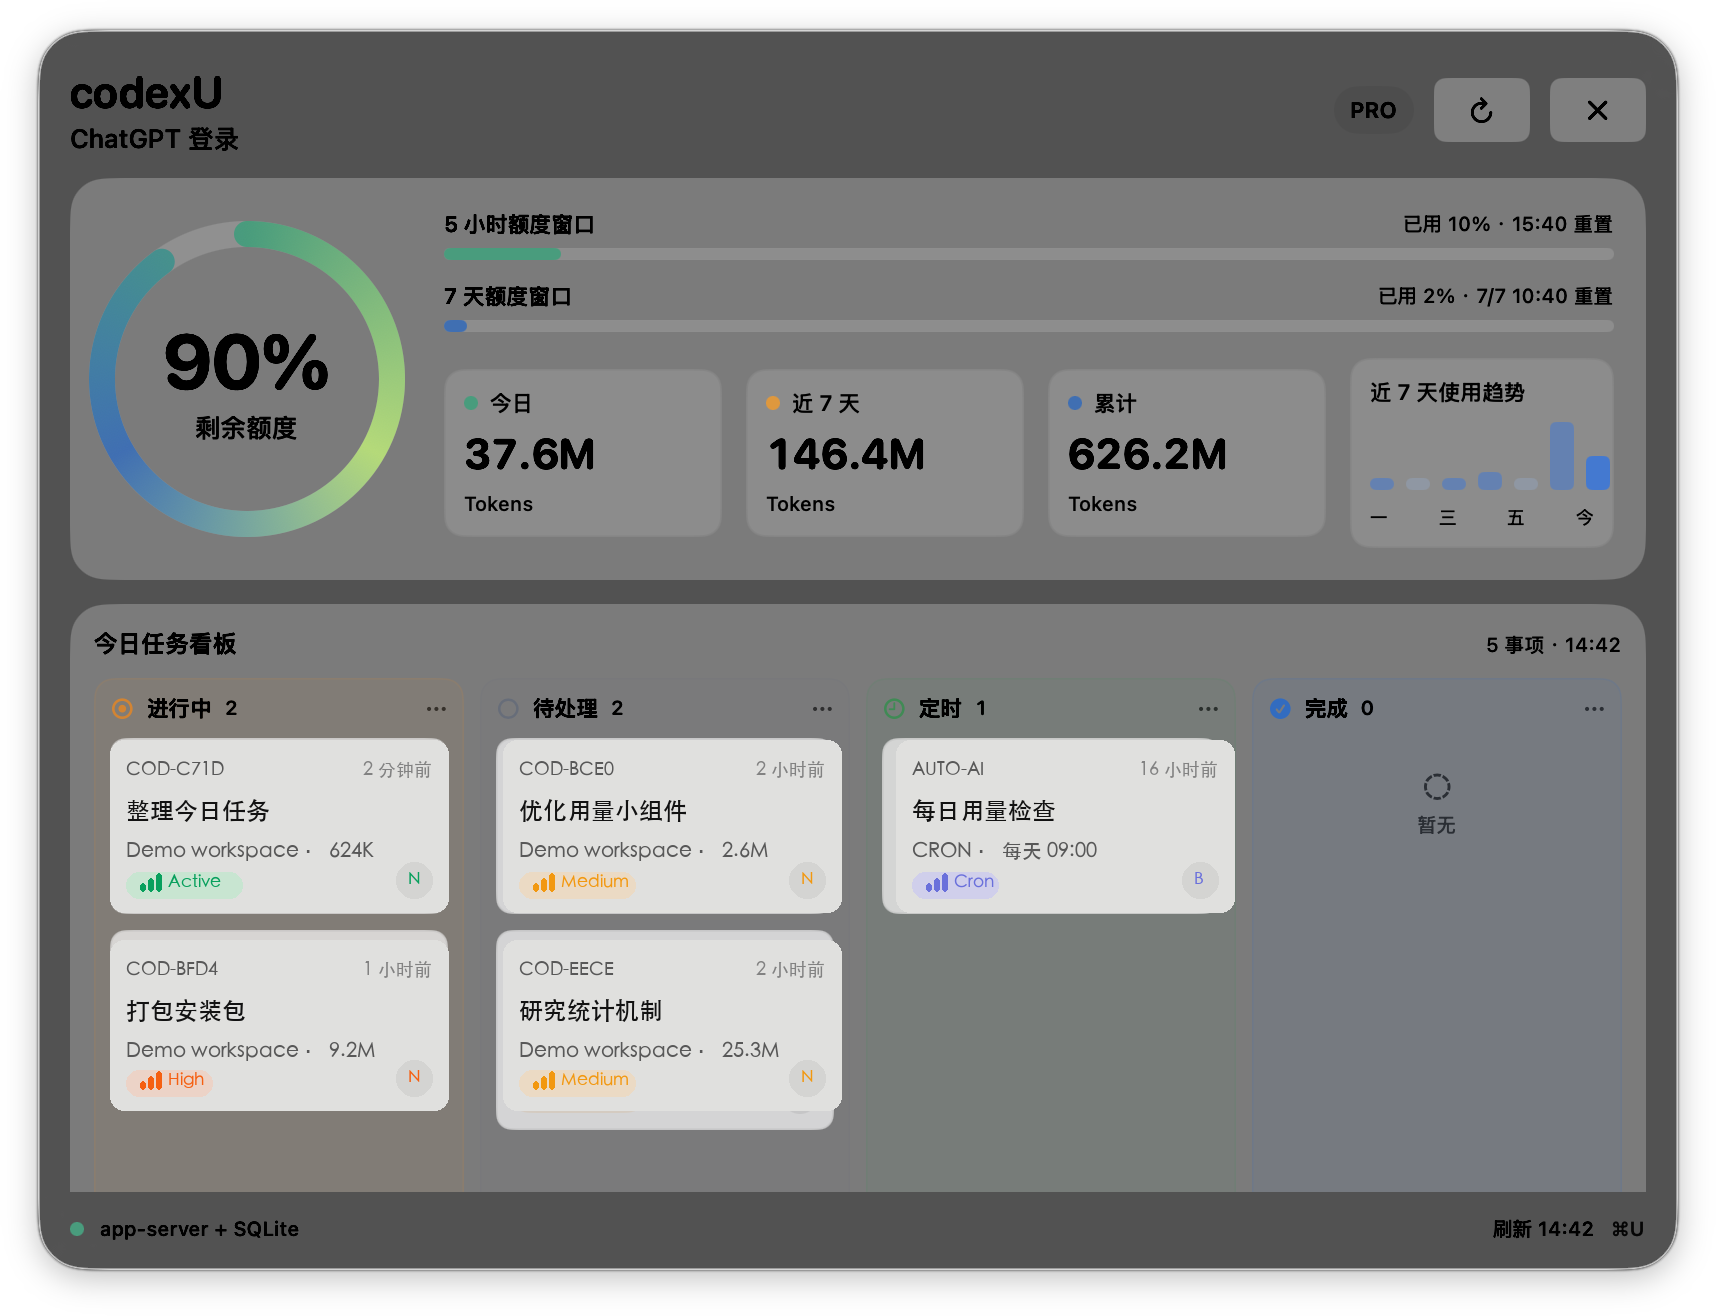
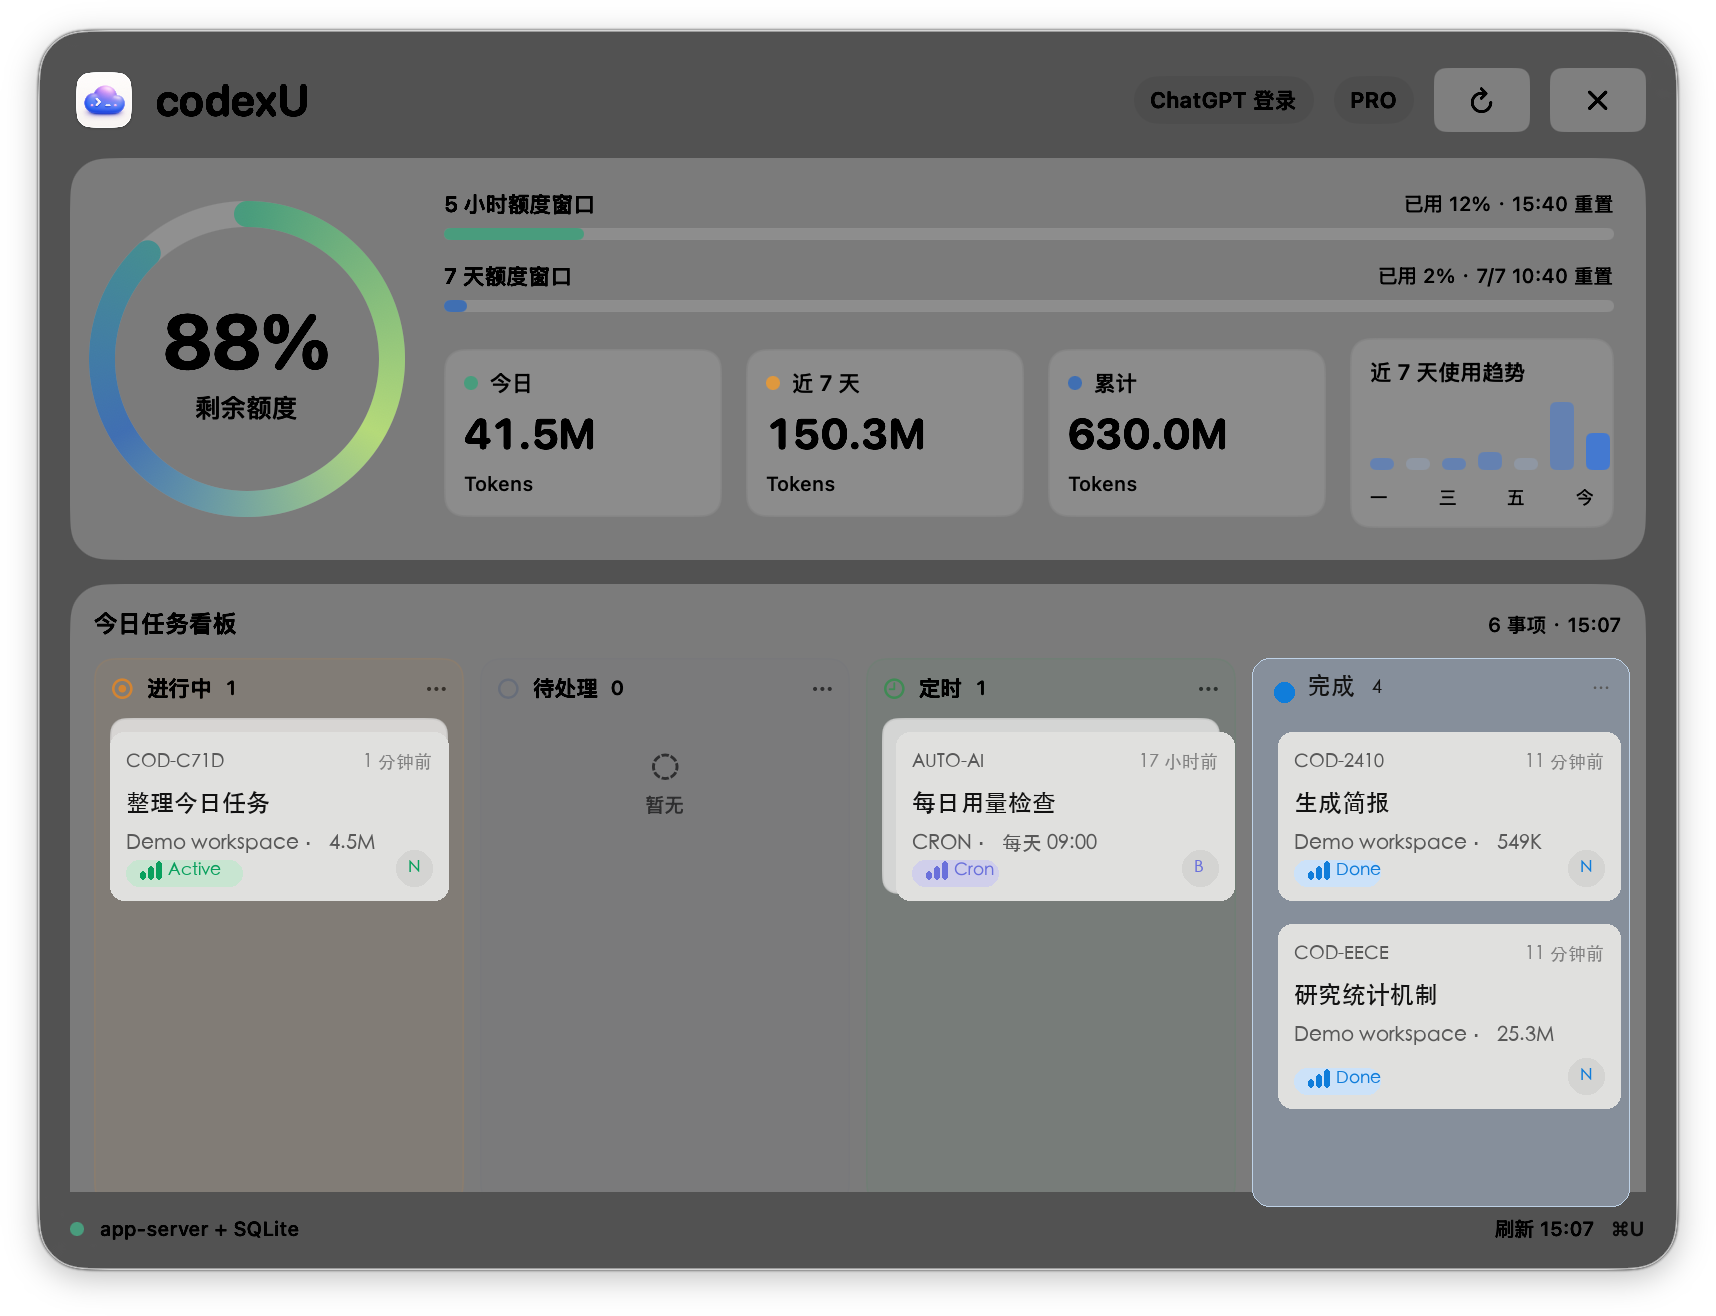
Update widget header branding

Changed region(s): [[0.0309, 0.0312, 0.9575, 0.9347], [0.803, 0.2804, 0.8957, 0.3116]]

diff --git a/Sources/CodexUsageWidget/main.swift b/Sources/CodexUsageWidget/main.swift
@@ -900,15 +900,19 @@ struct UsageWidgetView: View {
 
     private var header: some View {
         HStack(spacing: 10) {
-            VStack(alignment: .leading, spacing: 2) {
+            HStack(spacing: 9) {
+                Image(nsImage: NSApp.applicationIconImage)
+                    .resizable()
+                    .scaledToFit()
+                    .frame(width: 34, height: 34)
+                    .clipShape(RoundedRectangle(cornerRadius: 8, style: .continuous))
+                    .accessibilityHidden(true)
                 Text("codexU")
                     .font(.system(size: 22, weight: .semibold, design: .rounded))
                     .foregroundStyle(.primary)
-                Text(accountLabel)
-                    .font(.system(size: 13, weight: .medium))
-                    .foregroundStyle(.secondary)
             }
             Spacer()
+            accountPill
             planPill
             iconButton(systemName: store.isRefreshing ? "hourglass" : "arrow.clockwise") {
                 store.refresh()
@@ -945,7 +949,15 @@ struct UsageWidgetView: View {
     }
 
     private var planPill: some View {
-        Text(planLabel)
+        statusPill(planLabel)
+    }
+
+    private var accountPill: some View {
+        statusPill(accountLabel)
+    }
+
+    private func statusPill(_ label: String) -> some View {
+        Text(label)
             .font(.system(size: 11, weight: .semibold))
             .foregroundStyle(.secondary)
             .padding(.horizontal, 8)

diff --git a/CHANGELOG.md b/CHANGELOG.md
@@ -1,5 +1,11 @@
 # Changelog
 
+## 0.1.3
+
+- Added the app icon to the widget header.
+- Moved account status into a right-side pill next to the plan badge.
+- Updated the README screenshot for the new header layout.
+
 ## 0.1.2
 
 - Added local desktop widget UI for Codex quota, token usage, trend, and task board.

diff --git a/README.en.md b/README.en.md
@@ -76,8 +76,8 @@ make release
 Release artifacts are written to `dist/`, for example:
 
 ```text
-dist/codexU-0.1.2-mac-arm64.dmg
-dist/codexU-0.1.2-mac-arm64.dmg.sha256
+dist/codexU-0.1.3-mac-arm64.dmg
+dist/codexU-0.1.3-mac-arm64.dmg.sha256
 ```
 
 For Developer ID signing and notarization, see [DISTRIBUTION.md](DISTRIBUTION.md).

diff --git a/README.md b/README.md
@@ -87,8 +87,8 @@ make release
 产物会写入 `dist/`，例如：
 
 ```text
-dist/codexU-0.1.2-mac-arm64.dmg
-dist/codexU-0.1.2-mac-arm64.dmg.sha256
+dist/codexU-0.1.3-mac-arm64.dmg
+dist/codexU-0.1.3-mac-arm64.dmg.sha256
 ```
 
 Developer ID 签名和 Apple notarization 流程见 [DISTRIBUTION.md](DISTRIBUTION.md)。